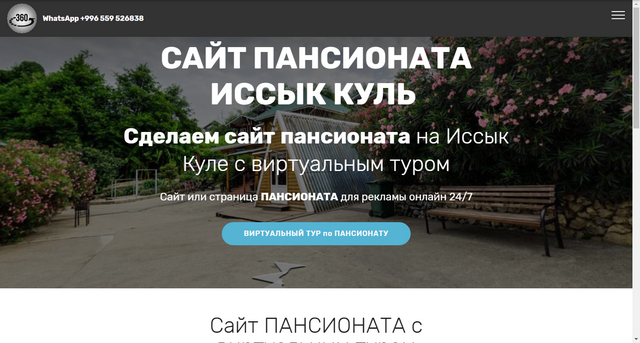
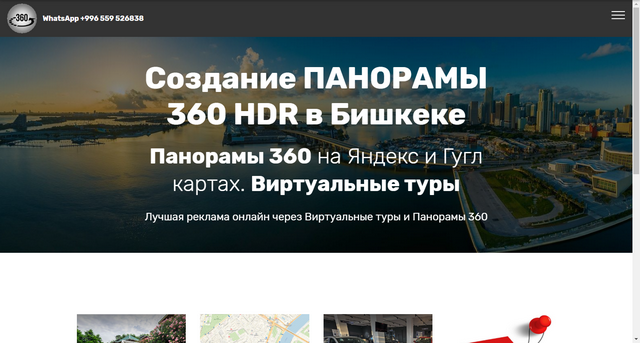
право собственности

diff --git a/bishkek_website.html b/bishkek_website.html
@@ -4,9 +4,10 @@
   <!-- Site made with Mobirise Website Builder v4.3.4, https://mobirise.com -->
   <meta charset="UTF-8">
   <meta http-equiv="X-UA-Compatible" content="IE=edge">
+ Панорамы HDR 360. Виртуальные туры. Создание сайта пансионата на Иссык Куле. Сайт организации. Цены на панорамы 360
   <meta name="generator" content="Mobirise v4.3.4, mobirise.com">
   <meta name="viewport" content="width=device-width, initial-scale=1">
-  <link rel="shortcut icon" href="assets/images/96x96-1.png" type="image/x-icon">
+  <link rel="shortcut icon" href="assets/images/96x96.png" type="image/x-icon">
   <meta name="description" content="Web Builder Description">
   <title>Сайт организации Бишкек</title>
   <link rel="stylesheet" href="assets/web/assets/mobirise-icons/mobirise-icons.css">
@@ -14,8 +15,8 @@
   <link rel="stylesheet" href="assets/bootstrap/css/bootstrap.min.css">
   <link rel="stylesheet" href="assets/bootstrap/css/bootstrap-grid.min.css">
   <link rel="stylesheet" href="assets/bootstrap/css/bootstrap-reboot.min.css">
-  <link rel="stylesheet" href="assets/dropdown/css/style.css">
   <link rel="stylesheet" href="assets/socicon/css/styles.css">
+  <link rel="stylesheet" href="assets/dropdown/css/style.css">
   <link rel="stylesheet" href="assets/theme/css/style.css">
   <link rel="stylesheet" href="assets/mobirise/css/mbr-additional.css" type="text/css">
   
@@ -23,11 +24,12 @@
   
 </head>
 <body>
-<section class="header1 cid-tomAZlL5pz" id="header1-15" data-rv-view="95">
+<section class="header1 cid-tomAZlL5pz mbr-parallax-background" id="header1-15" data-rv-view="95">
 
     
 
-    
+    <div class="mbr-overlay" style="opacity: 0.6; background-color: rgb(0, 0, 0);">
+    </div>
 
     <div class="container">
         <div class="row justify-content-md-center">
@@ -45,7 +47,7 @@
 
 </section>
 
-<section class="engine"><a href="https://mobirise.co/n">bootstrap modal popup</a></section><section class="mbr-section content4 cid-toyC5xMzzr" id="content4-18" data-rv-view="98">
+<section class="engine"><a href="https://mobirise.co/h">how to make a website</a></section><section class="mbr-section content4 cid-toyC5xMzzr" id="content4-18" data-rv-view="98">
 
     
 
@@ -98,8 +100,8 @@
         </div>
         <div class="collapse navbar-collapse" id="navbarSupportedContent">
             <ul class="navbar-nav nav-dropdown nav-right" data-app-modern-menu="true"><li class="nav-item">
-                    <a class="nav-link link text-white display-4" href="site_pansionata_issyk_kyl.html">Сайт Пансионата Иссык Куль</a>
-                </li><li class="nav-item"><a class="nav-link link text-white display-4" href="yandex_maps_google_panoramas_bishkek.html">Панорама на Яндекс и Гугл картах&nbsp;</a></li><li class="nav-item"><a class="nav-link link text-white display-4" href="bishkek_website.html">Сайт организации Бишкек</a></li><li class="nav-item"><a class="nav-link link text-white display-4" href="price_panorama_bishkek.html">Прайс лист</a></li></ul>
+                    <a class="nav-link link text-white display-4" href="site_pansionata_issyk_kyl.html"></a>
+                </li><li class="nav-item"><a class="nav-link link text-white display-4" href="index.html">Главная Панорама HDR 360</a></li><li class="nav-item"><a class="nav-link link text-white display-4" href="site_pansionata_issyk_kyl.html">Сайт Пансионата Иссык Куль</a></li><li class="nav-item"><a class="nav-link link text-white display-4" href="yandex_maps_google_panoramas_bishkek.html">Панорама на Яндекс и Гугл картах&nbsp;</a></li><li class="nav-item"><a class="nav-link link text-white display-4" href="bishkek_website.html">Сайт организации Бишкек</a></li><li class="nav-item"><a class="nav-link link text-white display-4" href="price_panorama_bishkek.html">Прайс лист</a></li></ul>
             
         </div>
     </nav>
@@ -147,11 +149,14 @@
   <script src="assets/popper/popper.min.js"></script>
   <script src="assets/tether/tether.min.js"></script>
   <script src="assets/bootstrap/js/bootstrap.min.js"></script>
-  <script src="assets/smooth-scroll/smooth-scroll.js"></script>
+  <script src="assets/jarallax/jarallax.min.js"></script>
   <script src="assets/dropdown/js/script.min.js"></script>
   <script src="assets/touch-swipe/jquery.touch-swipe.min.js"></script>
+  <script src="assets/smooth-scroll/smooth-scroll.js"></script>
   <script src="assets/theme/js/script.js"></script>
   
   
+
+<script src="yoursamplescript.js"></script>
 </body>
 </html>

diff --git a/index.html b/index.html
@@ -4,9 +4,10 @@
   <!-- Site made with Mobirise Website Builder v4.3.4, https://mobirise.com -->
   <meta charset="UTF-8">
   <meta http-equiv="X-UA-Compatible" content="IE=edge">
+ Панорамы HDR 360. Виртуальные туры. Создание сайта пансионата на Иссык Куле. Сайт организации. Цены на панорамы 360
   <meta name="generator" content="Mobirise v4.3.4, mobirise.com">
   <meta name="viewport" content="width=device-width, initial-scale=1">
-  <link rel="shortcut icon" href="assets/images/96x96-1.png" type="image/x-icon">
+  <link rel="shortcut icon" href="assets/images/96x96.png" type="image/x-icon">
   <meta name="description" content="Hdri карты скачать. Фото панорама 360 Яндекс Гугл онлайн сделать. Заказать виртуальный 3 d тур для рекламы">
   <title>HDR панорама 360 Бишкек</title>
   <link rel="stylesheet" href="assets/web/assets/mobirise-icons/mobirise-icons.css">
@@ -20,7 +21,9 @@
   <link rel="stylesheet" href="assets/mobirise/css/mbr-additional.css" type="text/css">
   
   
-  
+  <meta name="google-site-verification" content="vdBMvfkhx_hXlM0vGMMIK1B9kyGI3jBdQhoVCe2gZjk" />
+<meta name="yandex-verification" content="9e42d3effbde2726" />
+
 </head>
 <body>
 <section class="menu cid-tmikTaTQzK" once="menu" id="menu1-8" data-rv-view="11">
@@ -48,14 +51,14 @@
         </div>
         <div class="collapse navbar-collapse" id="navbarSupportedContent">
             <ul class="navbar-nav nav-dropdown nav-right" data-app-modern-menu="true"><li class="nav-item">
-                    <a class="nav-link link text-white display-4" href="site_pansionata_issyk_kyl.html">Сайт Пансионата Иссык Куль</a>
-                </li><li class="nav-item"><a class="nav-link link text-white display-4" href="yandex_maps_google_panoramas_bishkek.html">Панорама на Яндекс и Гугл картах&nbsp;</a></li><li class="nav-item"><a class="nav-link link text-white display-4" href="bishkek_website.html">Сайт организации Бишкек</a></li><li class="nav-item"><a class="nav-link link text-white display-4" href="price_panorama_bishkek.html">Прайс лист</a></li></ul>
+                    <a class="nav-link link text-white display-4" href="site_pansionata_issyk_kyl.html"></a>
+                </li><li class="nav-item"><a class="nav-link link text-white display-4" href="index.html">Главная Панорама HDR 360</a></li><li class="nav-item"><a class="nav-link link text-white display-4" href="site_pansionata_issyk_kyl.html">Сайт Пансионата Иссык Куль</a></li><li class="nav-item"><a class="nav-link link text-white display-4" href="yandex_maps_google_panoramas_bishkek.html">Панорама на Яндекс и Гугл картах&nbsp;</a></li><li class="nav-item"><a class="nav-link link text-white display-4" href="bishkek_website.html">Сайт организации Бишкек</a></li><li class="nav-item"><a class="nav-link link text-white display-4" href="price_panorama_bishkek.html">Прайс лист</a></li></ul>
             
         </div>
     </nav>
 </section>
 
-<section class="engine"><a href="https://mobirise.co/p">bootstrap dropdown</a></section><section class="header1 cid-tzdmnNasPU mbr-parallax-background" id="header1-1q" data-rv-view="13">
+<section class="engine"><a href="https://mobirise.co/q">bootstrap carousel</a></section><section class="header1 cid-tzdmnNasPU mbr-parallax-background" id="header1-1q" data-rv-view="13">
 
     
 
@@ -160,7 +163,7 @@
             <div class="col-12 col-md-3">
                 <div class="media-wrap">
                     <a href="https://www.panorama360.asia/">
-                        <img src="assets/images/300x300.png" alt="panorama360.asia" title="Изготовление панорам 360" media-simple="true">
+                        <img src="assets/images/-96x96.png" alt="panorama360.asia" title="Изготовление панорам 360" media-simple="true">
                     </a>
                 </div>
             </div>
@@ -198,5 +201,7 @@
   <script src="assets/theme/js/script.js"></script>
   
   
+
+<script src="yoursamplescript.js"></script>
 </body>
 </html>

diff --git a/site_pansionata_issyk_kyl.html b/site_pansionata_issyk_kyl.html
@@ -4,9 +4,10 @@
   <!-- Site made with Mobirise Website Builder v4.3.4, https://mobirise.com -->
   <meta charset="UTF-8">
   <meta http-equiv="X-UA-Compatible" content="IE=edge">
+ Панорамы HDR 360. Виртуальные туры. Создание сайта пансионата на Иссык Куле. Сайт организации. Цены на панорамы 360
   <meta name="generator" content="Mobirise v4.3.4, mobirise.com">
   <meta name="viewport" content="width=device-width, initial-scale=1">
-  <link rel="shortcut icon" href="assets/images/96x96-1.png" type="image/x-icon">
+  <link rel="shortcut icon" href="assets/images/96x96.png" type="image/x-icon">
   <meta name="description" content="Пансионат официальный сайт Иссык Куль создание. Лучшая бесплатная реклама сайта пансионата на Иссык Куле.   Сайт дома отдыха реклама">
   <title>Сделать сайт пансионата Иссык Куль</title>
   <link rel="stylesheet" href="assets/web/assets/mobirise-icons/mobirise-icons.css">
@@ -46,7 +47,7 @@
 
 </section>
 
-<section class="engine"><a href="https://mobirise.co/d">free web page software</a></section><section class="mbr-section content4 cid-toyC5xMzzr" id="content4-1l" data-rv-view="80">
+<section class="engine"><a href="https://mobirise.co/m">bootstrap table</a></section><section class="mbr-section content4 cid-toyC5xMzzr" id="content4-1l" data-rv-view="80">
 
     
 
@@ -171,8 +172,8 @@
         </div>
         <div class="collapse navbar-collapse" id="navbarSupportedContent">
             <ul class="navbar-nav nav-dropdown nav-right" data-app-modern-menu="true"><li class="nav-item">
-                    <a class="nav-link link text-white display-4" href="site_pansionata_issyk_kyl.html">Сайт Пансионата Иссык Куль</a>
-                </li><li class="nav-item"><a class="nav-link link text-white display-4" href="yandex_maps_google_panoramas_bishkek.html">Панорама на Яндекс и Гугл картах&nbsp;</a></li><li class="nav-item"><a class="nav-link link text-white display-4" href="bishkek_website.html">Сайт организации Бишкек</a></li><li class="nav-item"><a class="nav-link link text-white display-4" href="price_panorama_bishkek.html">Прайс лист</a></li></ul>
+                    <a class="nav-link link text-white display-4" href="site_pansionata_issyk_kyl.html"></a>
+                </li><li class="nav-item"><a class="nav-link link text-white display-4" href="index.html">Главная Панорама HDR 360</a></li><li class="nav-item"><a class="nav-link link text-white display-4" href="site_pansionata_issyk_kyl.html">Сайт Пансионата Иссык Куль</a></li><li class="nav-item"><a class="nav-link link text-white display-4" href="yandex_maps_google_panoramas_bishkek.html">Панорама на Яндекс и Гугл картах&nbsp;</a></li><li class="nav-item"><a class="nav-link link text-white display-4" href="bishkek_website.html">Сайт организации Бишкек</a></li><li class="nav-item"><a class="nav-link link text-white display-4" href="price_panorama_bishkek.html">Прайс лист</a></li></ul>
             
         </div>
     </nav>
@@ -227,5 +228,7 @@
   <script src="assets/theme/js/script.js"></script>
   
   
+
+<script src="yoursamplescript.js"></script>
 </body>
 </html>

diff --git a/yandex_maps_google_panoramas_bishkek.html b/yandex_maps_google_panoramas_bishkek.html
@@ -4,9 +4,10 @@
   <!-- Site made with Mobirise Website Builder v4.3.4, https://mobirise.com -->
   <meta charset="UTF-8">
   <meta http-equiv="X-UA-Compatible" content="IE=edge">
+ Панорамы HDR 360. Виртуальные туры. Создание сайта пансионата на Иссык Куле. Сайт организации. Цены на панорамы 360
   <meta name="generator" content="Mobirise v4.3.4, mobirise.com">
   <meta name="viewport" content="width=device-width, initial-scale=1">
-  <link rel="shortcut icon" href="assets/images/96x96-1.png" type="image/x-icon">
+  <link rel="shortcut icon" href="assets/images/96x96.png" type="image/x-icon">
   <meta name="description" content="Сделаем 3 d панораму 360 вашего бизнеса. Разместим на картах Яндекс и Гугл в Бишкеке">
   <title>панорама яндекс гугл карты Бишкек</title>
   <link rel="stylesheet" href="assets/icon54/style.css">
@@ -45,7 +46,7 @@
     
 </section>
 
-<section class="engine"><a href="https://mobirise.co/g">how to create your own website</a></section><section class="mbr-section content4 cid-tnk8oqQCHh" id="content4-h" data-rv-view="25">
+<section class="engine"><a href="https://mobirise.co/q">bootstrap slider</a></section><section class="mbr-section content4 cid-tnk8oqQCHh" id="content4-h" data-rv-view="25">
 
     
 
@@ -266,8 +267,8 @@
         </div>
         <div class="collapse navbar-collapse" id="navbarSupportedContent">
             <ul class="navbar-nav nav-dropdown nav-right" data-app-modern-menu="true"><li class="nav-item">
-                    <a class="nav-link link text-white display-4" href="site_pansionata_issyk_kyl.html">Сайт Пансионата Иссык Куль</a>
-                </li><li class="nav-item"><a class="nav-link link text-white display-4" href="yandex_maps_google_panoramas_bishkek.html">Панорама на Яндекс и Гугл картах&nbsp;</a></li><li class="nav-item"><a class="nav-link link text-white display-4" href="bishkek_website.html">Сайт организации Бишкек</a></li><li class="nav-item"><a class="nav-link link text-white display-4" href="price_panorama_bishkek.html">Прайс лист</a></li></ul>
+                    <a class="nav-link link text-white display-4" href="site_pansionata_issyk_kyl.html"></a>
+                </li><li class="nav-item"><a class="nav-link link text-white display-4" href="index.html">Главная Панорама HDR 360</a></li><li class="nav-item"><a class="nav-link link text-white display-4" href="site_pansionata_issyk_kyl.html">Сайт Пансионата Иссык Куль</a></li><li class="nav-item"><a class="nav-link link text-white display-4" href="yandex_maps_google_panoramas_bishkek.html">Панорама на Яндекс и Гугл картах&nbsp;</a></li><li class="nav-item"><a class="nav-link link text-white display-4" href="bishkek_website.html">Сайт организации Бишкек</a></li><li class="nav-item"><a class="nav-link link text-white display-4" href="price_panorama_bishkek.html">Прайс лист</a></li></ul>
             
         </div>
     </nav>
@@ -322,5 +323,7 @@
   <script src="assets/theme/js/script.js"></script>
   
   
+
+<script src="yoursamplescript.js"></script>
 </body>
 </html>

diff --git a/price_panorama_bishkek.html b/price_panorama_bishkek.html
@@ -4,9 +4,10 @@
   <!-- Site made with Mobirise Website Builder v4.3.4, https://mobirise.com -->
   <meta charset="UTF-8">
   <meta http-equiv="X-UA-Compatible" content="IE=edge">
+ Панорамы HDR 360. Виртуальные туры. Создание сайта пансионата на Иссык Куле. Сайт организации. Цены на панорамы 360
   <meta name="generator" content="Mobirise v4.3.4, mobirise.com">
   <meta name="viewport" content="width=device-width, initial-scale=1">
-  <link rel="shortcut icon" href="assets/images/96x96-1.png" type="image/x-icon">
+  <link rel="shortcut icon" href="assets/images/96x96.png" type="image/x-icon">
   <meta name="description" content="Панорама 360 цена. Создание панорамы стоимость">
   <title>Панорама цены Бишкек</title>
   <link rel="stylesheet" href="assets/web/assets/mobirise-icons/mobirise-icons.css">
@@ -43,7 +44,7 @@
 
 </section>
 
-<section class="engine"><a href="https://mobirise.co/d">web software</a></section><section class="mbr-section content4 cid-tohdOVzRyx" id="content4-x" data-rv-view="49">
+<section class="engine"><a href="https://mobirise.co/b">web page creator</a></section><section class="mbr-section content4 cid-tohdOVzRyx" id="content4-x" data-rv-view="49">
 
     
 
@@ -382,8 +383,8 @@
         </div>
         <div class="collapse navbar-collapse" id="navbarSupportedContent">
             <ul class="navbar-nav nav-dropdown nav-right" data-app-modern-menu="true"><li class="nav-item">
-                    <a class="nav-link link text-white display-4" href="site_pansionata_issyk_kyl.html">Сайт Пансионата Иссык Куль</a>
-                </li><li class="nav-item"><a class="nav-link link text-white display-4" href="yandex_maps_google_panoramas_bishkek.html">Панорама на Яндекс и Гугл картах&nbsp;</a></li><li class="nav-item"><a class="nav-link link text-white display-4" href="bishkek_website.html">Сайт организации Бишкек</a></li><li class="nav-item"><a class="nav-link link text-white display-4" href="price_panorama_bishkek.html">Прайс лист</a></li></ul>
+                    <a class="nav-link link text-white display-4" href="site_pansionata_issyk_kyl.html"></a>
+                </li><li class="nav-item"><a class="nav-link link text-white display-4" href="index.html">Главная Панорама HDR 360</a></li><li class="nav-item"><a class="nav-link link text-white display-4" href="site_pansionata_issyk_kyl.html">Сайт Пансионата Иссык Куль</a></li><li class="nav-item"><a class="nav-link link text-white display-4" href="yandex_maps_google_panoramas_bishkek.html">Панорама на Яндекс и Гугл картах&nbsp;</a></li><li class="nav-item"><a class="nav-link link text-white display-4" href="bishkek_website.html">Сайт организации Бишкек</a></li><li class="nav-item"><a class="nav-link link text-white display-4" href="price_panorama_bishkek.html">Прайс лист</a></li></ul>
             
         </div>
     </nav>
@@ -564,5 +565,7 @@
   <script src="assets/theme/js/script.js"></script>
   
   
+
+<script src="yoursamplescript.js"></script>
 </body>
 </html>

diff --git a/assets/mobirise/css/mbr-additional.css b/assets/mobirise/css/mbr-additional.css
@@ -3642,7 +3642,7 @@ body {
 .cid-tomAZlL5pz {
   padding-top: 90px;
   padding-bottom: 90px;
-  background-color: #073b4c;
+  background-image: url("../../../assets/images/-1438x527.jpg");
 }
 .cid-toyC5xMzzr {
   padding-top: 60px;
